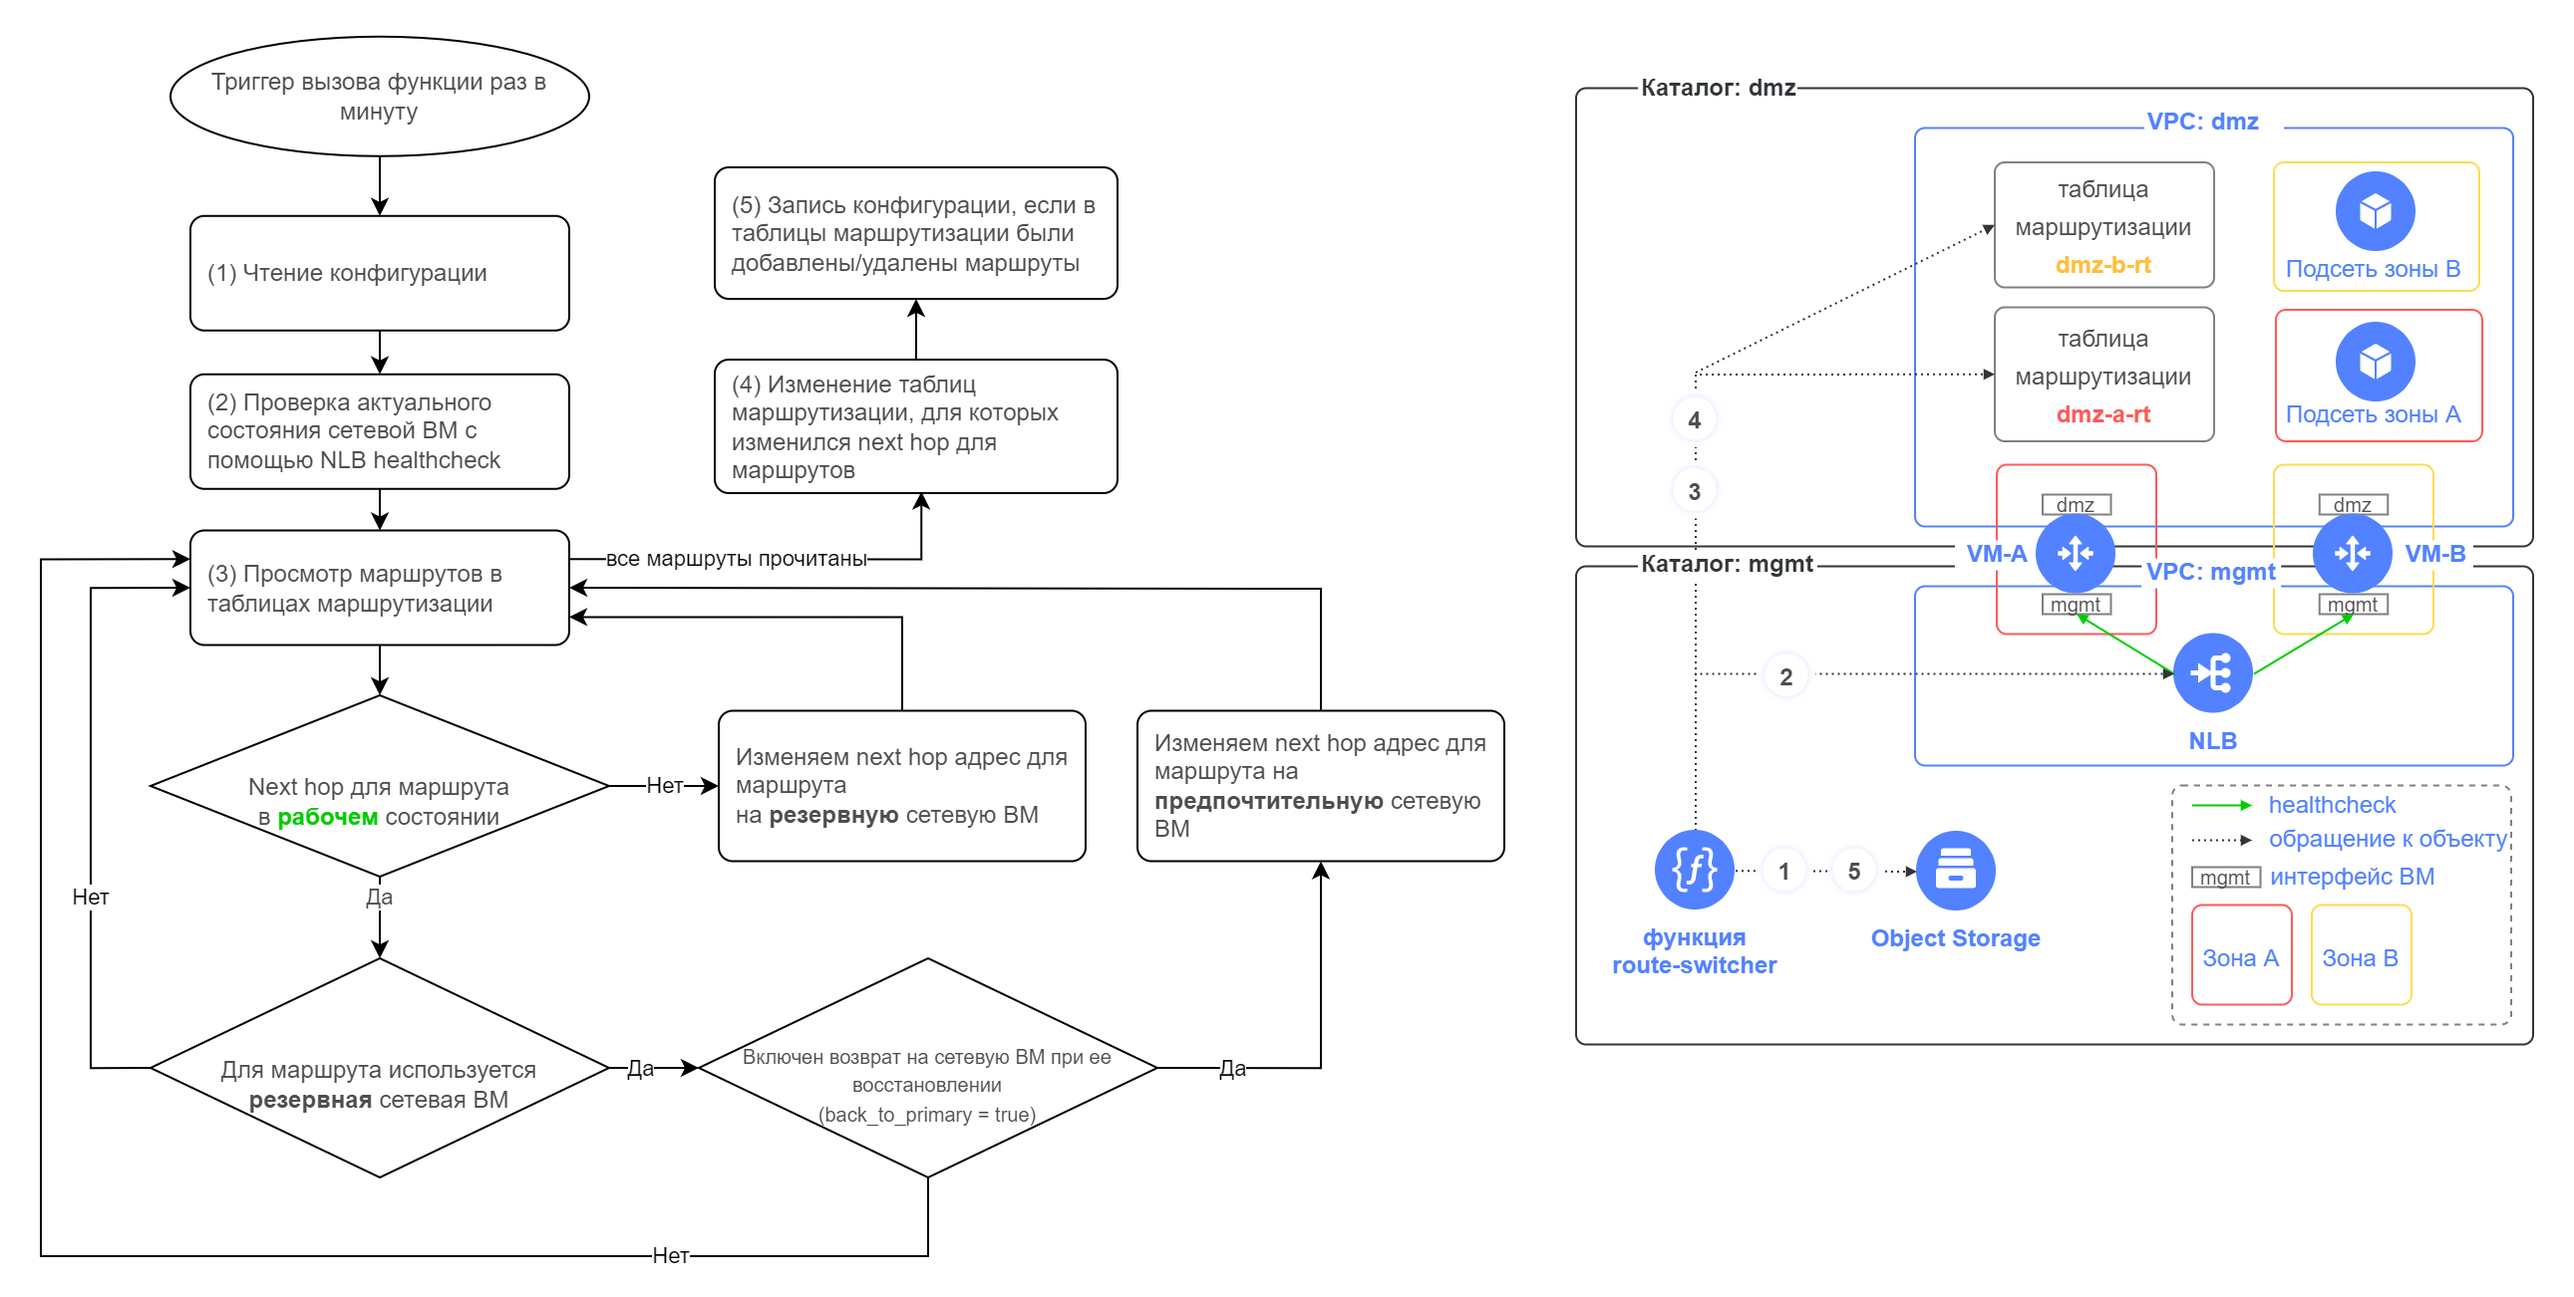
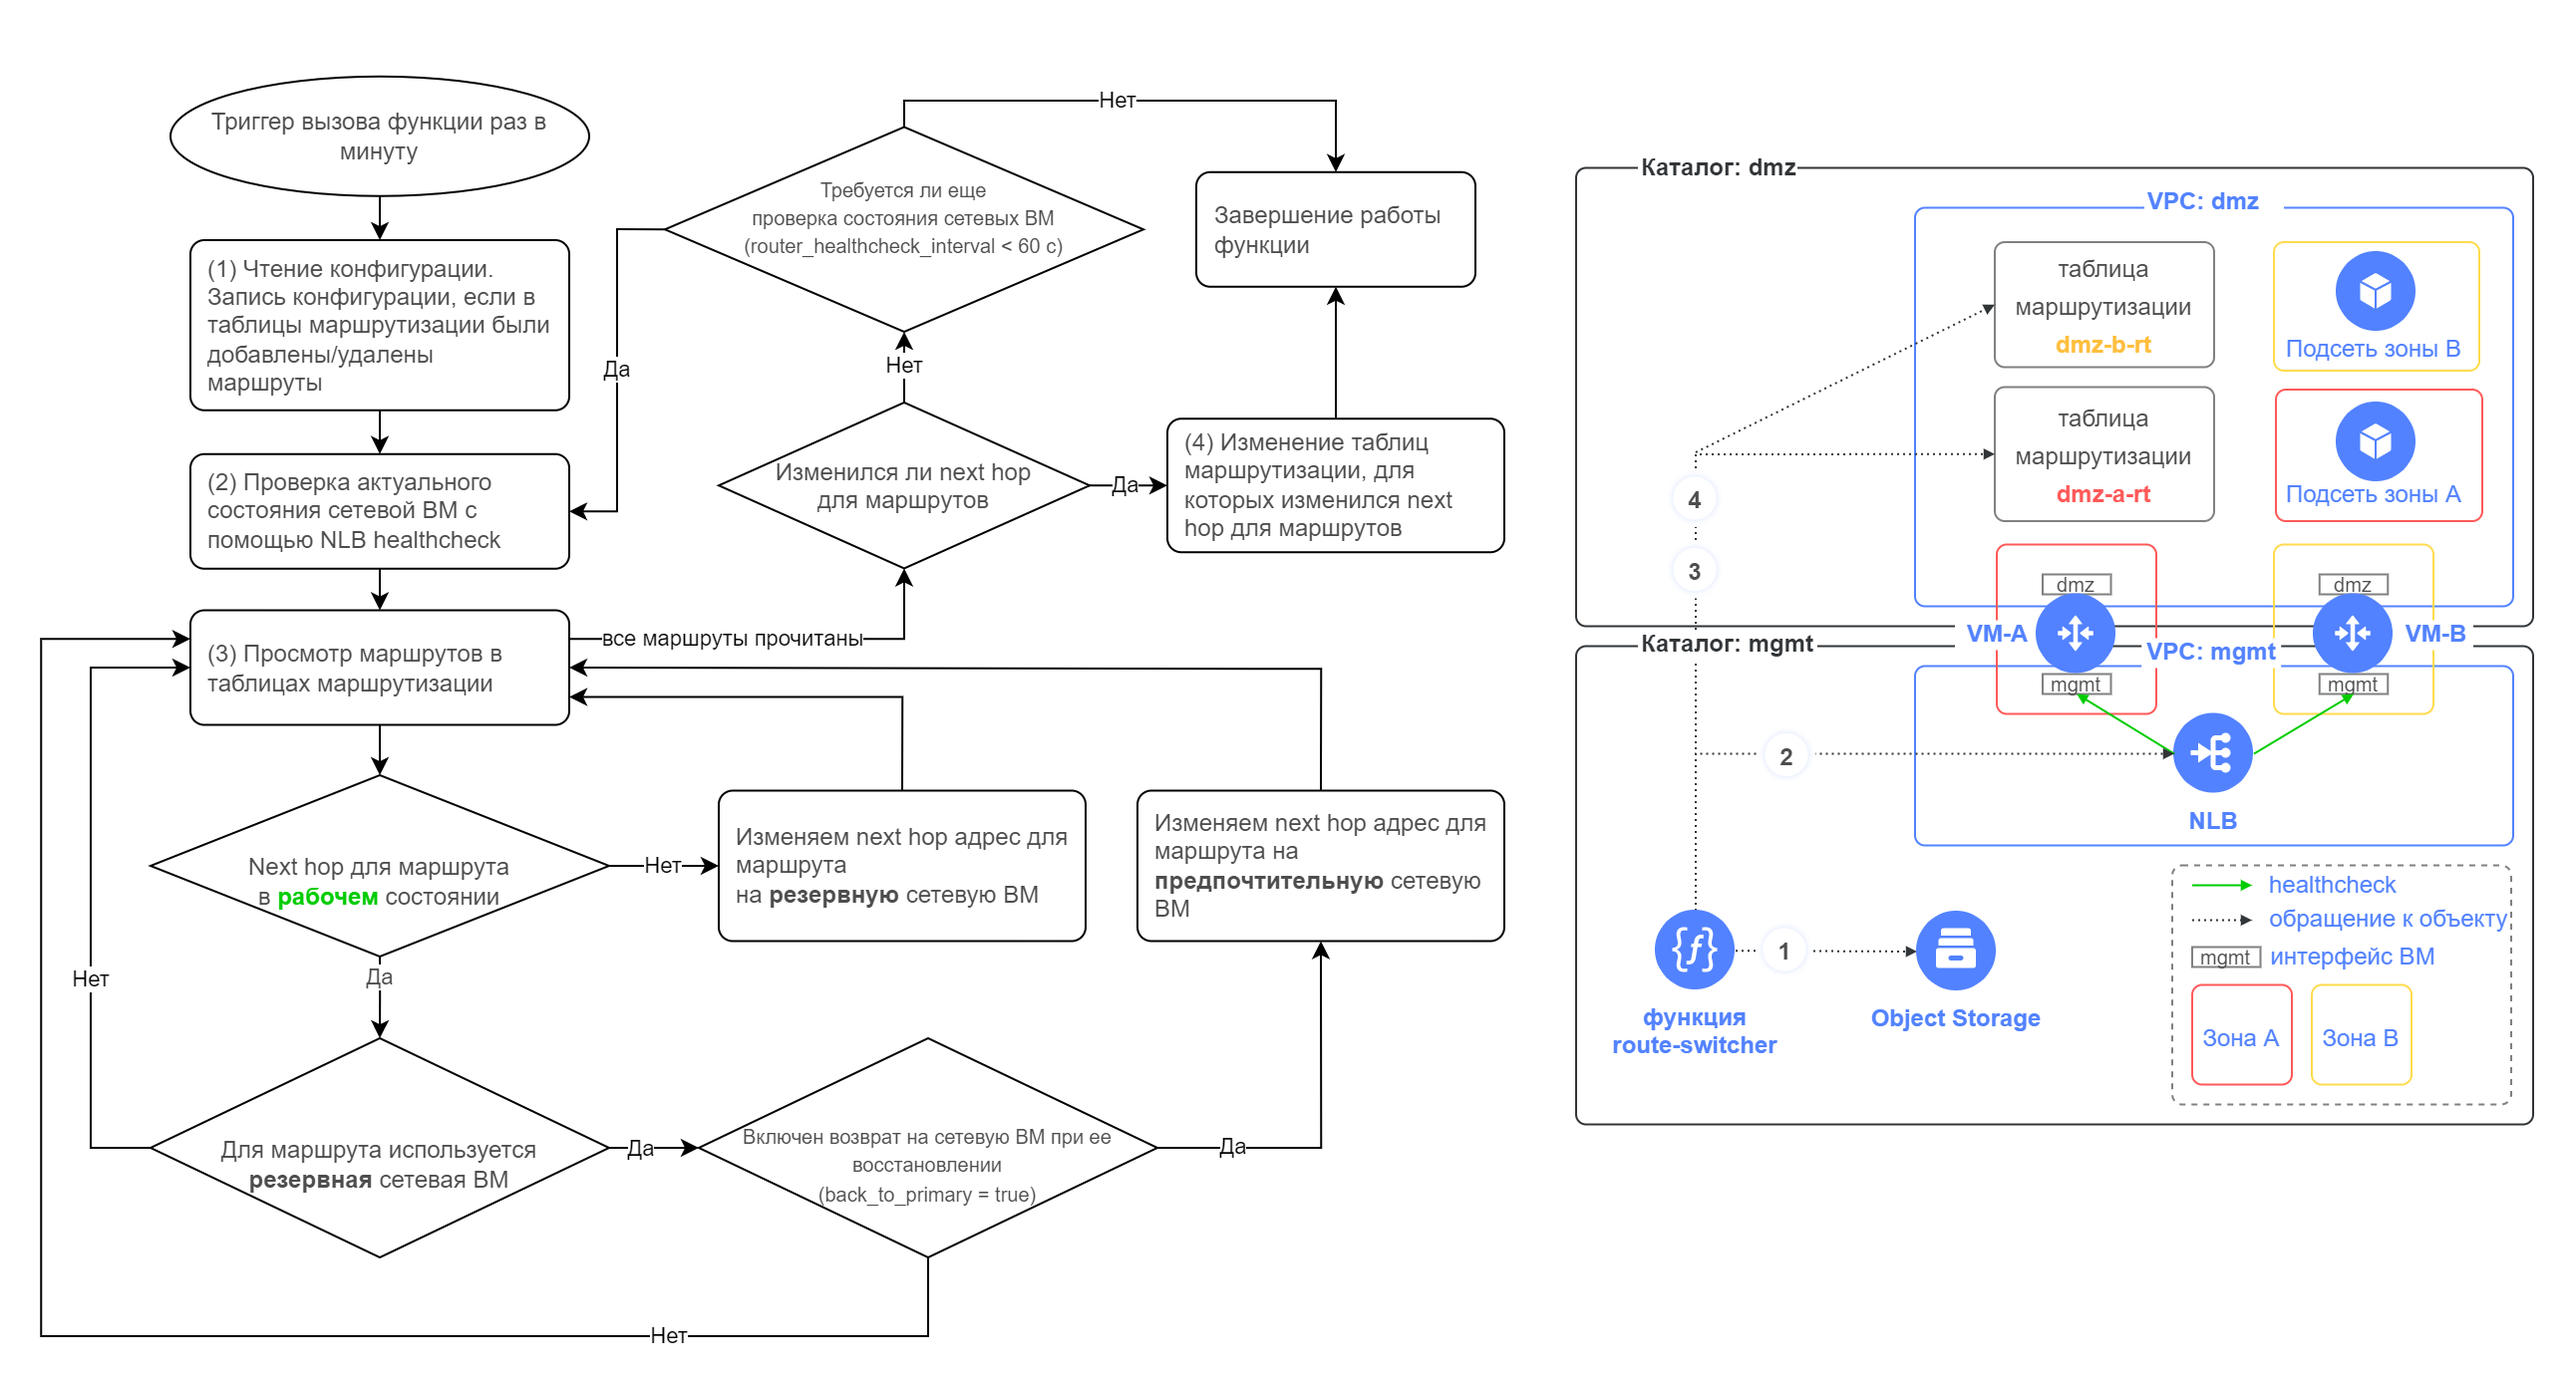
Updated README.md

diff --git a/route-switcher/route-switcher-function/main.py b/route-switcher/route-switcher-function/main.py
@@ -287,9 +287,6 @@ def handler(event, context):
     config = config_route_tables_routers['config']
     all_routeTables = config_route_tables_routers['all_routeTables']
     routers = config_route_tables_routers['routers']
-    
-    print("Time of start checking router status:", (time.time() - start_time) , "sec")
-
     function_life_time = int(cron_interval) * 60
     checking_num = 1
     # repeat checking router status in loop 
@@ -392,14 +389,12 @@ def handler(event, context):
             config['updating_tables'] = False
             put_config(config)
             # exit from function as failover was executed for route tables
-            print("Time of exit from function after failover:", (time.time() - start_time) , "sec")
             return
                
         if (last_check_time + int(router_healthcheck_interval)) < function_life_time:
             time.sleep(checking_num * int(router_healthcheck_interval) - last_check_time)
             checking_num = checking_num + 1
         else:
-            print("Last time of checking router status:", (time.time() - start_time) , "sec")
             break
 
     

diff --git a/README.md b/README.md
@@ -40,7 +40,7 @@
 ## Возможности модуля
 - Переключение next hop адресов в таблицах маршрутизации при отказе сетевой ВМ на резервную ВМ  
 - Возврат next hop адресов в таблицах маршрутизации на сетевую ВМ после ее восстановления (настраиваемая опция)
-- Среднее время реакции на сбой: 1 мин. Возможно уменьшение этого времени ([подробности](#алгоритм-работы-функции-route-switcher)).
+- Среднее время реакции на сбой: 1 мин. Возможно уменьшение этого времени (см. [подробности](#алгоритм-работы-функции-route-switcher)).
 - Работа с сетевыми ВМ, имеющими несколько сетевых интерфейсов в разных VPC
 - Поддержка нескольких таблиц маршрутизации в разных VPC
 - В качестве next hop в таблице маршрутизации можно указывать разные сетевые ВМ для разных префиксов
@@ -71,16 +71,12 @@
 
 ### Алгоритм работы функции route-switcher
 
-<details>
-<summary>Посмотреть подробности</summary>
-
 Функция route-switcher вызывается по триггеру раз в минуту (значение по умолчанию), проверяет в каком состоянии находятся сетевые ВМ, и в случае недоступности сетевых ВМ переключает next hop адреса в таблицах маршрутизации. При восстановлении сетевой ВМ функция route-switcher возвращает ее next hop адреса в таблицах маршрутизации (если настроена такая опция).
 
 Возможно уменьшить интервал между последовательными проверками состояния сетевых ВМ во время работы облачной функции с помощью задания параметра `router_healthcheck_interval` во входных параметрах модуля. По умолчанию это значение 60 с. Если меняется значение по умолчанию, то рекомендуется дополнительно провести тестирование сценариев отказоустойчивости. Не рекомендуется устанавливать значение интервала менее 10 с.
 
 ![Алгоритм работы функции route-switcher](./images/route-switcher-alg.png)
 
-</details>
 
 
 ## Входные параметры модуля
